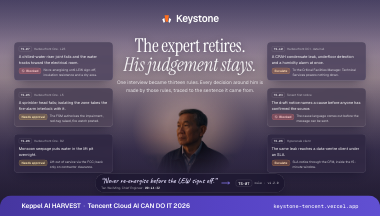
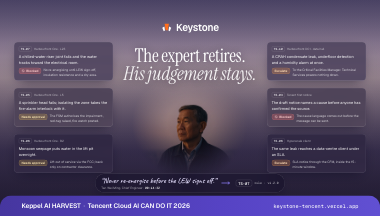
fix(cover): the strapline was explaining what the cards already show
Six cards state the situation and the status the engine returns for it,
and the strip at the foot shows a sentence becoming a rule. A paragraph
saying the same thing in prose sat between the headline and the expert,
pushing them apart and adding nothing a reader could not already see.

The mark, the wordmark and the line now read as one centred block, and
the figure sits directly under it as it does on the landing page.

Claude-Session: https://claude.ai/code/session_01JjnGgnEHobmqshrWgEYDRx

Changed region(s): [[0.2895, 0.1667, 0.6947, 0.4444], [0.4053, 0.4722, 0.6079, 0.7222], [0.4053, 0.0556, 0.5789, 0.1667]]

diff --git a/docs/submission/cover.html b/docs/submission/cover.html
@@ -38,7 +38,7 @@
   }
 
   /* The expert sits low and centred; the photo's sky dissolves into the panel's. */
-  .photo { position: absolute; left: 500px; top: 292px; width: 520px; height: 436px; overflow: hidden; opacity: .96;
+  .photo { position: absolute; left: 500px; top: 276px; width: 520px; height: 436px; overflow: hidden; opacity: .96;
     -webkit-mask-image: radial-gradient(ellipse 52% 60% at 50% 50%, #000 34%, transparent 86%);
     mask-image: radial-gradient(ellipse 52% 60% at 50% 50%, #000 34%, transparent 86%); }
   .photo img { width: 100%; height: 100%; object-fit: cover; object-position: 50% 12%;
@@ -47,15 +47,14 @@
       linear-gradient(180deg, rgba(36,30,62,.34) 0%, rgba(36,30,62,0) 26%, rgba(33,27,49,.30) 78%, rgba(33,27,49,.72) 100%); }
 
   /* Centre column: mark, wordmark, the line the whole product argues for. */
-  .centre { position: absolute; left: 50%; top: 52px; transform: translateX(-50%); width: 760px; text-align: center; }
+  .centre { position: absolute; left: 50%; top: 86px; transform: translateX(-50%); width: 760px; text-align: center; }
   .lockup { display: inline-flex; align-items: center; gap: 14px; }
   .lockup svg { width: 46px; height: 46px; }
   .lockup span { font-size: 40px; font-weight: 600; letter-spacing: -0.02em; line-height: 1; }
 
-  h1 { margin-top: 44px; font-family: 'Instrument Serif', Georgia, serif; font-weight: 400;
+  h1 { margin-top: 48px; font-family: 'Instrument Serif', Georgia, serif; font-weight: 400;
     font-size: 76px; line-height: 0.98; letter-spacing: -0.015em; text-shadow: 0 2px 30px rgba(20,16,40,.4); }
   h1 em { font-style: italic; color: rgba(255,255,255,.9); }
-  .sub { margin: 20px auto 0; max-width: 596px; font-size: 19.5px; line-height: 1.5; color: var(--soft); }
 
   /* Scenario cards. */
   .card { position: absolute; width: 396px; padding: 16px 18px 15px; border-radius: 16px;
@@ -118,7 +117,6 @@
       <span>Keystone</span>
     </div>
     <h1>The expert retires.<br><em>His judgement stays.</em></h1>
-    <p class="sub">One interview became thirteen rules. Every decision around him is made by those rules, traced to the sentence it came from.</p>
   </div>
 
   <!-- Left: the plant room. TS-07, TS-05, TS-06 on their own eval cases. -->

diff --git a/docs/submission/form-answers.md b/docs/submission/form-answers.md
@@ -236,7 +236,7 @@ set, and what is novel. Built from `deck.html`; see `deck/README.md`.
 - If the form accepts a larger file, use `docs/submission/cover.png` (1520×864, the same image at 4×). It stays sharp on high-DPI showcase pages.
 - The source is `docs/submission/cover.html`; re-render both with `node docs/submission/render-art.mjs`.
 - It is the landing hero held still: the mark and wordmark centred, the headline
-  under them, and the chief engineer where the site puts him. Around him are six
+  under them as one block, and the chief engineer where the site puts him. Around him are six
   real eval cases from the two pills — TS-07, TS-05, TS-06, TS-10, TE-03, TE-06 —
   each with the status the engine actually returns for it, so the cover cannot
   claim an outcome the repository does not produce. The strip across the foot is
